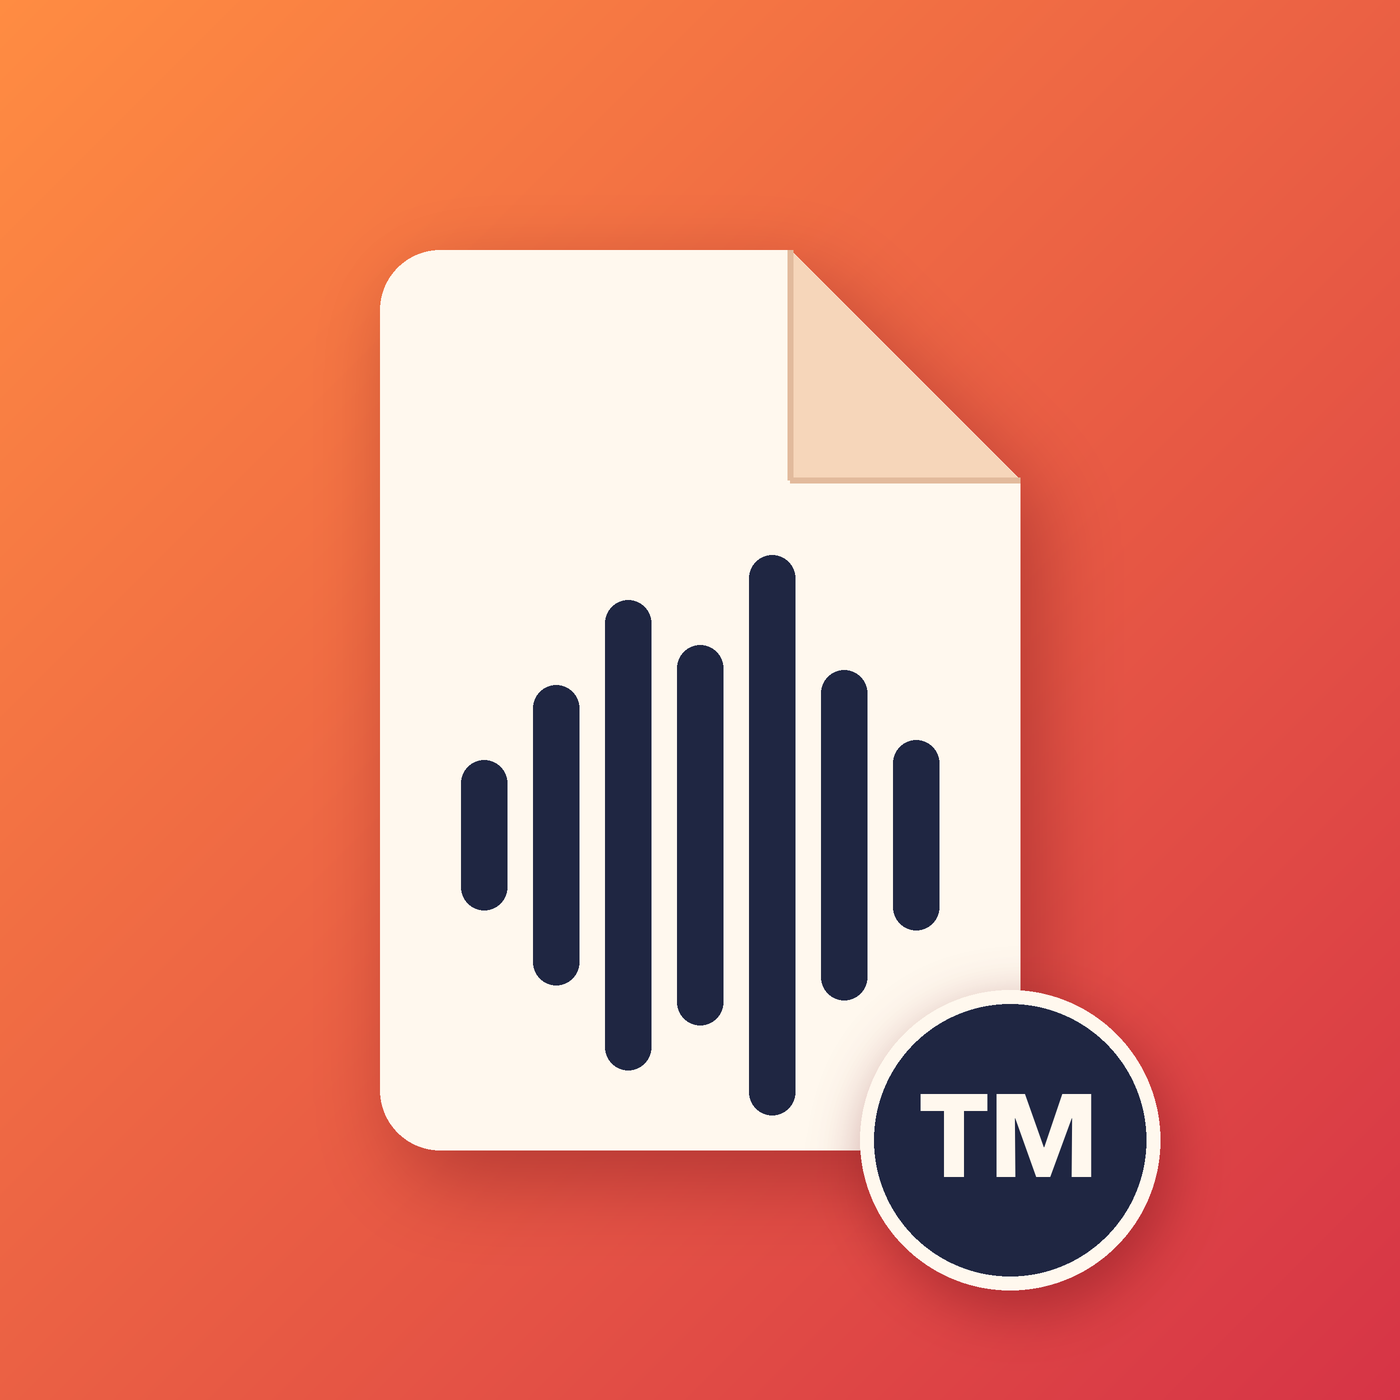
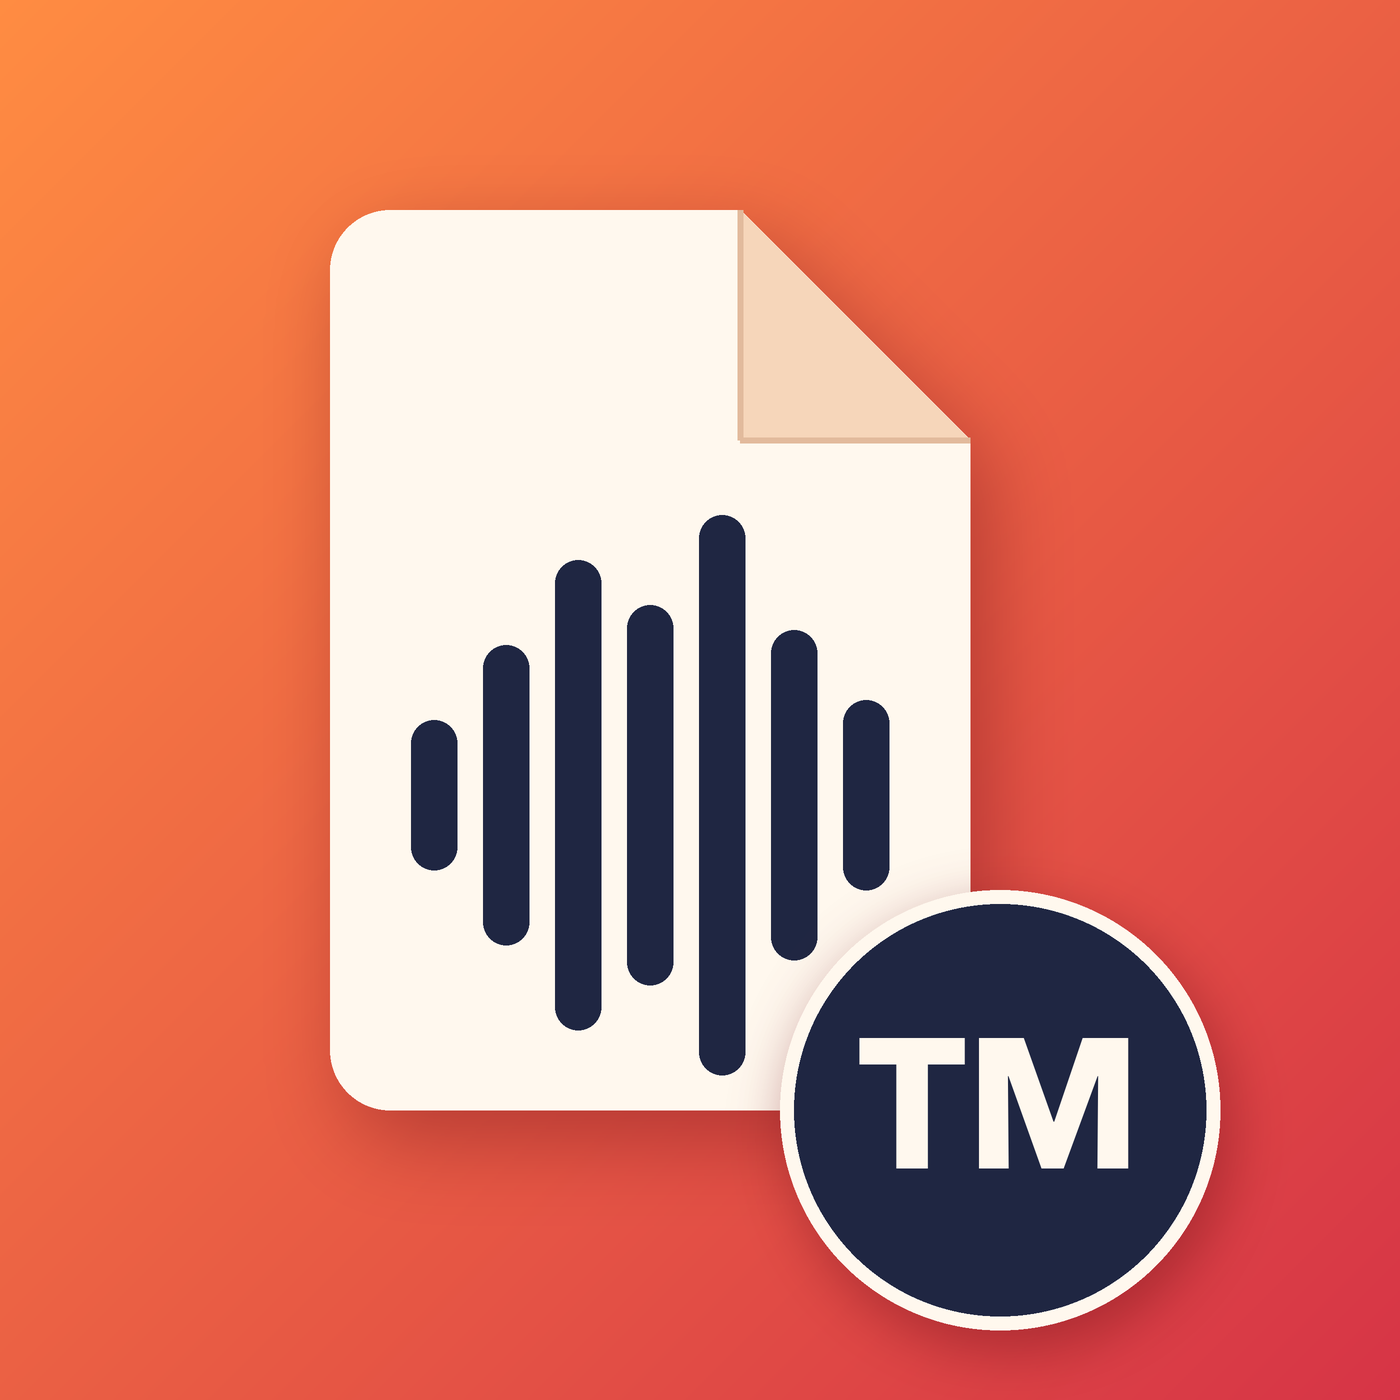
Enlarge the TM monogram on the cover

Changed region(s): [[0.215, 0.1229, 0.8907, 0.9829]]

diff --git a/scripts/make_cover.py b/scripts/make_cover.py
@@ -41,7 +41,7 @@ def badge(image: Image.Image, center: tuple[float, float], radius: float, u: flo
     ring = 14 * u
     draw.ellipse((cx - radius, cy - radius, cx + radius, cy + radius), fill=PAPER)
     draw.ellipse((cx - radius + ring, cy - radius + ring, cx + radius - ring, cy + radius - ring), fill=INK)
-    draw.text((cx, cy), INITIALS, font=bold_font(int(radius * 0.78)), fill=PAPER, anchor="mm")
+    draw.text((cx, cy), INITIALS, font=bold_font(int(radius * 0.84)), fill=PAPER, anchor="mm")
 
 
 def gradient() -> Image.Image:
@@ -60,7 +60,7 @@ def main() -> None:
     image = gradient()
     u = S / 1400  # layout unit, so the design is described at 1400 px
 
-    left, top, right, bottom = 380 * u, 250 * u, 1020 * u, 1150 * u
+    left, top, right, bottom = 330 * u, 210 * u, 970 * u, 1110 * u  # off-centre to leave room for the badge
     fold = 230 * u
     radius = 60 * u
 
@@ -88,7 +88,7 @@ def main() -> None:
         draw.rounded_rectangle((x, middle - half, x + bar, middle + half), bar / 2, fill=INK)
         x += bar + gap
 
-    badge(image, (right - 10 * u, bottom - 10 * u), 150 * u, u)
+    badge(image, (right + 30 * u, bottom), 220 * u, u)
 
     OUT.parent.mkdir(parents=True, exist_ok=True)
     image.resize((SIZE, SIZE), Image.LANCZOS).save(OUT, optimize=True)
